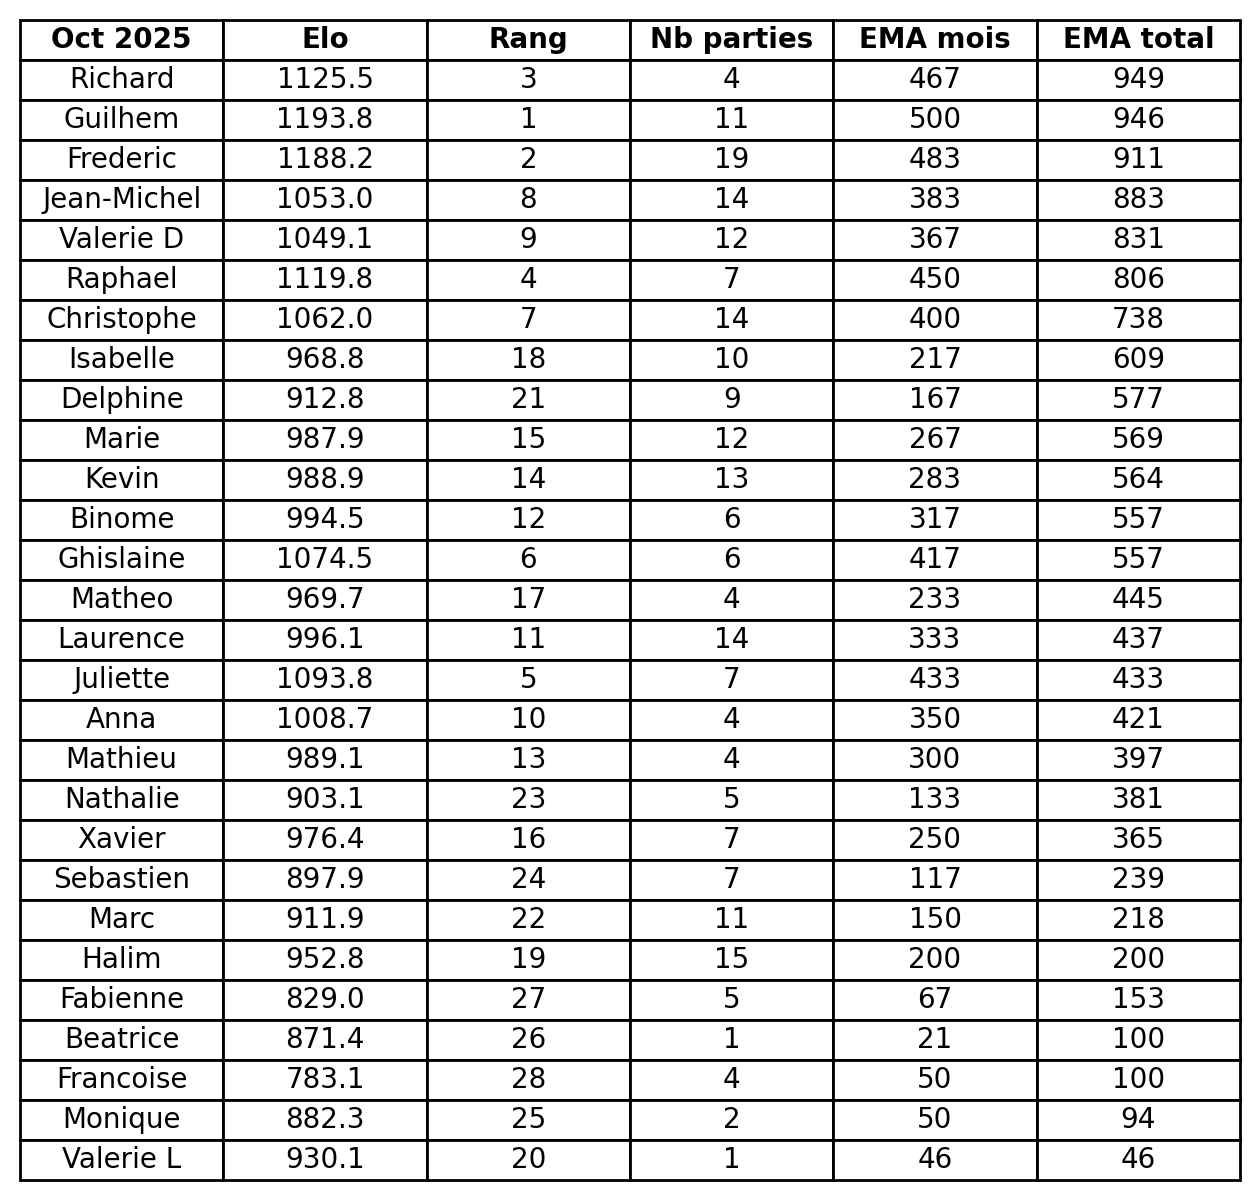
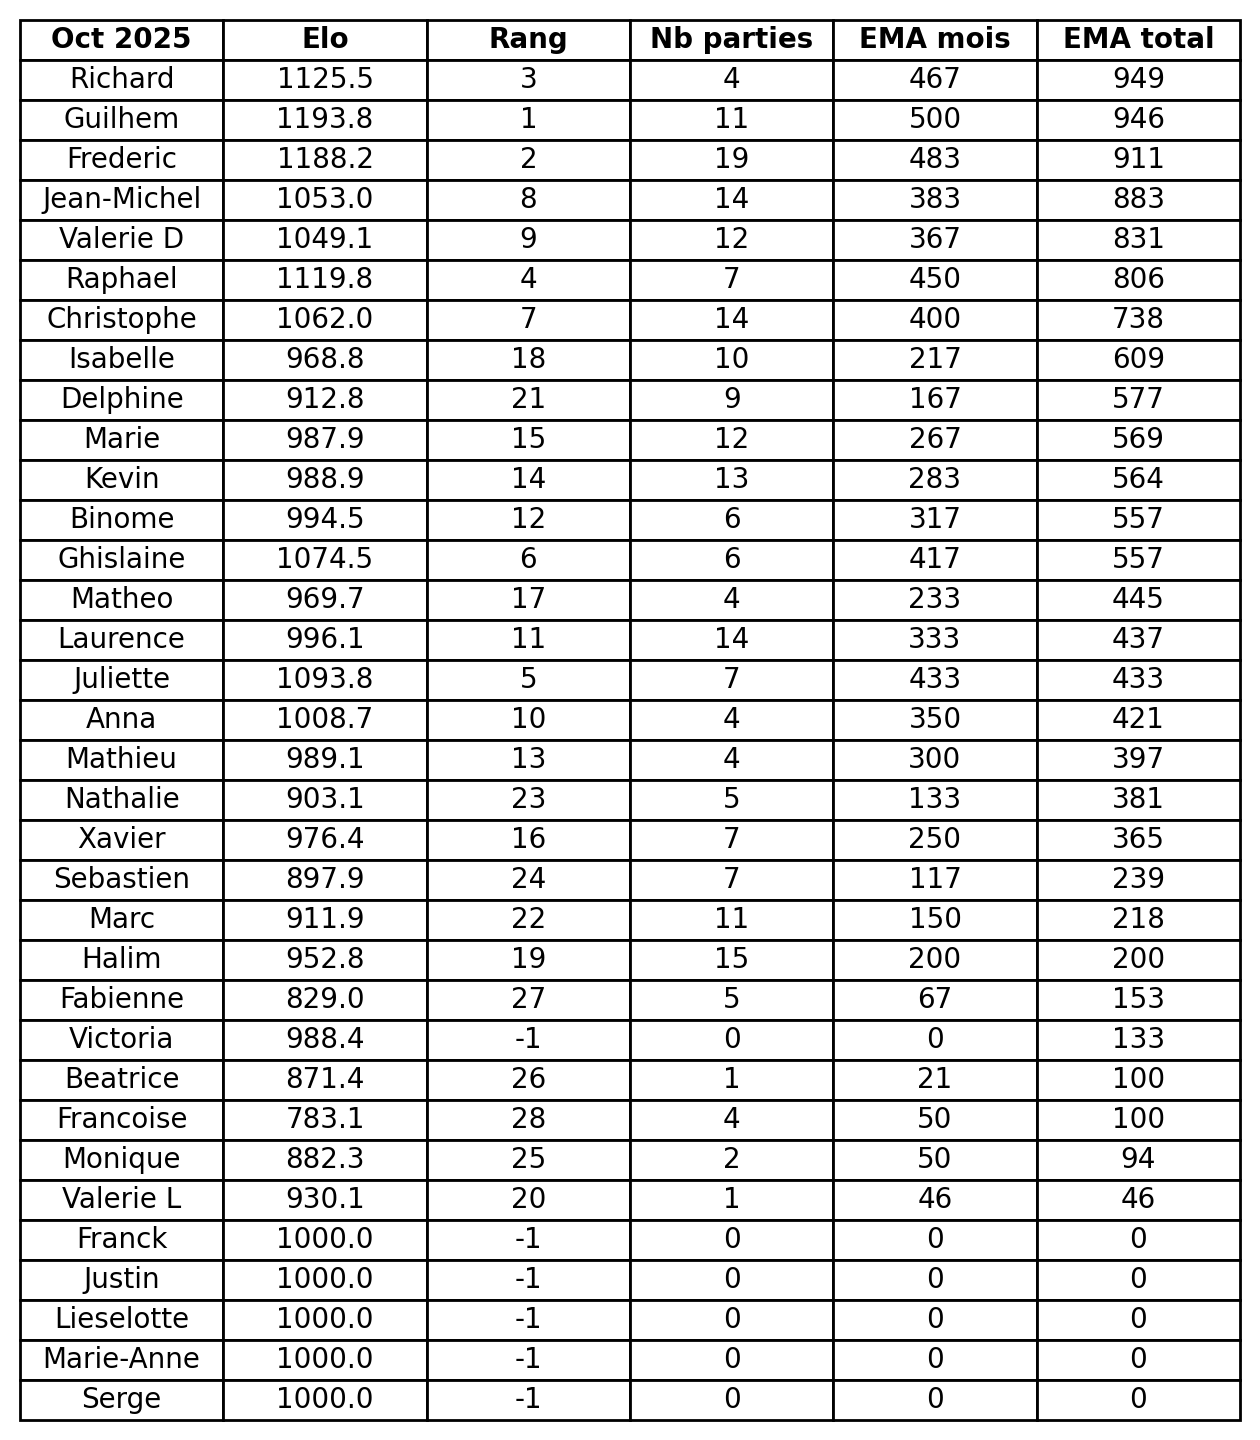
retrait filtre ema

Changed region(s): [[0.0, 0.0, 0.9905, 0.9867]]

diff --git a/visualizer.py b/visualizer.py
@@ -96,7 +96,7 @@ class Visualizer:
 
             ema_table = []
             for name, stats in ema_stats.items():
-                if stats['rank'] != -1:
+                if stats['rank'] != -1 or True: # Filter
                     ema_table.append([
                         name,
                         round(stats['elo'], 1),
